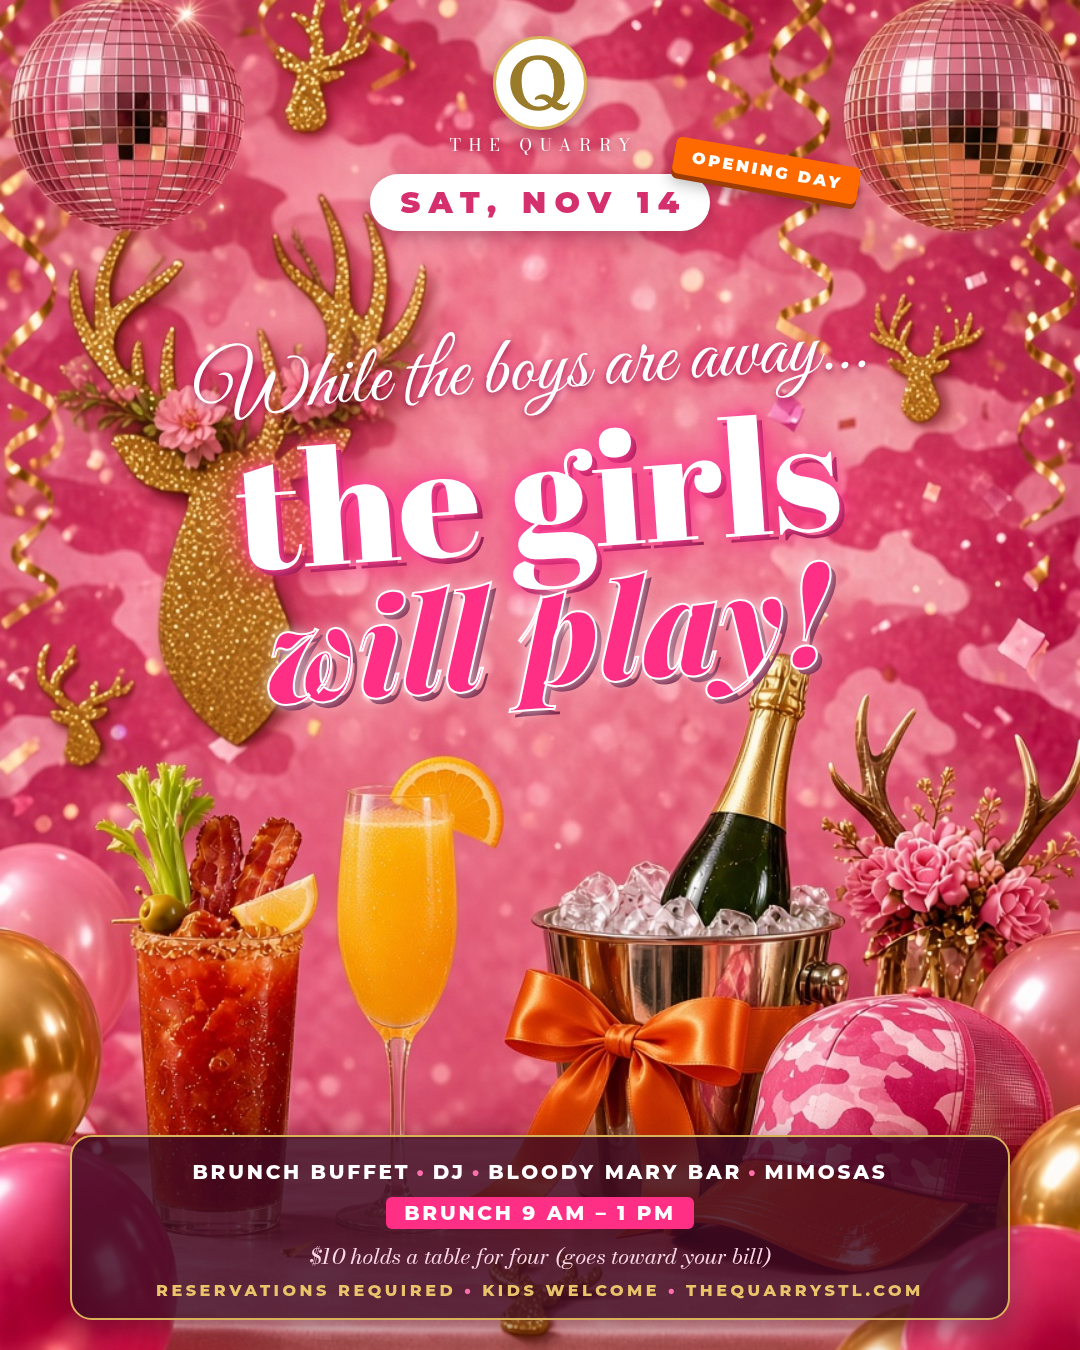
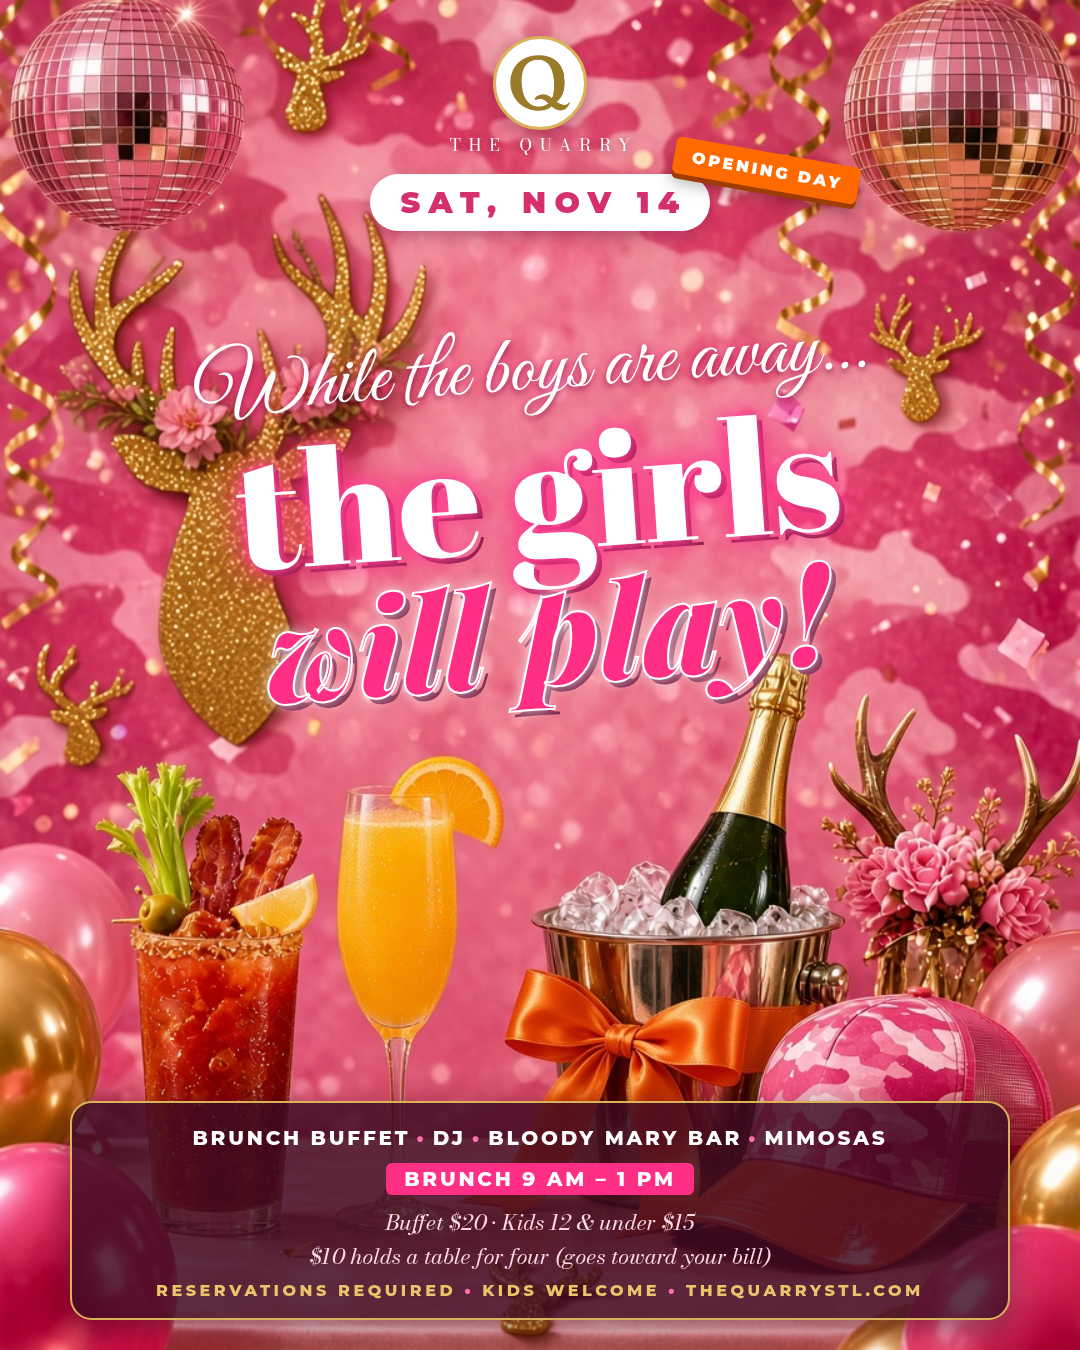
Girls brunch 11/14: 4-top/8-top/bar-seat holds (per-option holdLabel), buffet pricing in calendar row, flyer v4 w/ pricing (preview only)

Changed region(s): [[0.0611, 0.8089, 0.9472, 0.9333]]

diff --git a/quarry-calendar.html b/quarry-calendar.html
@@ -405,7 +405,7 @@ const EVENTS = [
 
   /* ----------------------------- NOVEMBER ----------------------------- */
   { date:"2026-11-07", name:"QuarryFest", type:["family","free"], time:"12:00 PM – 4:00 PM", desc:"Shop 40+ local vendors, live music, food and drinks. Free admission." },
-  { date:"2026-11-14", name:"While the Boys Are Away, the Girls Will Play", type:["ticketed","family"], time:"9:00 AM – 1:00 PM", price:"$10 hold per table of 4, credited to your bill", desc:"Brunch buffet, DJ Dr. Draper and a build-your-own Bloody Mary bar. Kids welcome. Reservations required, seating limited. Reserve a table for four: $10 holds it and goes toward your bill.", link:"/quarry-event-detail.html?id=girls-brunch-2026-11-14", linkLabel:"Reserve a Table" },
+  { date:"2026-11-14", name:"While the Boys Are Away, the Girls Will Play", type:["ticketed","family"], time:"9:00 AM – 1:00 PM", price:"Buffet $20 adults, $15 kids 12 & under. Holds: 4-top $10, 8-top $20, bar seat $5, credited to your bill", desc:"Brunch buffet, DJ Dr. Draper and a build-your-own Bloody Mary bar. Kids welcome. Reservations required, seating limited. Book a 4-top, an 8-top or a bar seat; your hold goes toward your bill.", link:"/quarry-event-detail.html?id=girls-brunch-2026-11-14", linkLabel:"Reserve a Table" },
   { date:"2026-11-18", name:"Craft Night", type:["recurring"], tbd:true, desc:"Make-and-take craft night." },
   { date:"2026-11-19", name:"Pumpkin Spice & Everything Nice Cookie Decorating Class with Tee & Cookies STL", type:["ticketed"], time:"6:00 – 8:00 PM", price:"$55 per person", desc:"Decorate six pumpkin-spice-themed sugar cookies with Bobbie from Tee & Cookies STL. All icing and supplies included, and your cookies go home with you. Food and drinks available at the bar.", link:"https://pci.jotform.com/form/263006299534157", linkLabel:"Sign Up" },
   { date:"2026-11-19", name:"Rock & Vine Wine Club — Augusta Winery", type:["recurring"], desc:"Monthly wine club tasting featuring Augusta Winery.", link:"/quarry-event-detail.html?id=wt-2026-11-12-ticket" },

diff --git a/quarry-event-detail.html b/quarry-event-detail.html
@@ -1384,7 +1384,7 @@
                     // units x seats x pricePerSeat — ticket tiers do not apply.
                     subtotalCents = priced.totalCents;
                     html += '<div style="display:flex;justify-content:space-between;"><span>' + units + ' &times; ' + (optObj.name || 'Seating') + '</span><span>$' + (priced.perUnitCents / 100).toFixed(2) + ' ea</span></div>';
-                    html += '<div style="display:flex;justify-content:space-between;"><span>' + numPeople + ' seat' + (numPeople === 1 ? '' : 's') + '</span><span>' + (optObj.deposit ? 'Table hold, credited to your bill' : '$' + (priced.pricePerSeat / 100).toFixed(2) + '/seat') + '</span></div>';
+                    html += '<div style="display:flex;justify-content:space-between;"><span>' + numPeople + ' seat' + (numPeople === 1 ? '' : 's') + '</span><span>' + (optObj.deposit ? (optObj.holdLabel || 'Hold, credited to your bill') : '$' + (priced.pricePerSeat / 100).toFixed(2) + '/seat') + '</span></div>';
                     if (submitBtn && !detailAllSeatingSoldOut) submitBtn.disabled = false;
                 } else {
                     var splitRows = document.querySelectorAll('#detailTierSplitRows input[data-tierqty]');

diff --git a/quarry-events.html b/quarry-events.html
@@ -2803,7 +2803,7 @@
                 </div>
                 <div style="display:flex;justify-content:space-between;">
                     <span>${totalSeats} seat${totalSeats === 1 ? '' : 's'}</span>
-                    <span>${(getSelectedSeatingOption() || {}).deposit ? 'Table hold, credited to your bill' : '$' + (priced.pricePerSeat / 100).toFixed(2) + '/seat'}</span>
+                    <span>${(getSelectedSeatingOption() || {}).deposit ? ((getSelectedSeatingOption() || {}).holdLabel || 'Hold, credited to your bill') : '$' + (priced.pricePerSeat / 100).toFixed(2) + '/seat'}</span>
                 </div>`;
                 totalDiv.textContent = "$" + (priced.totalCents / 100).toFixed(2);
                 summaryDiv.style.display = "block";
